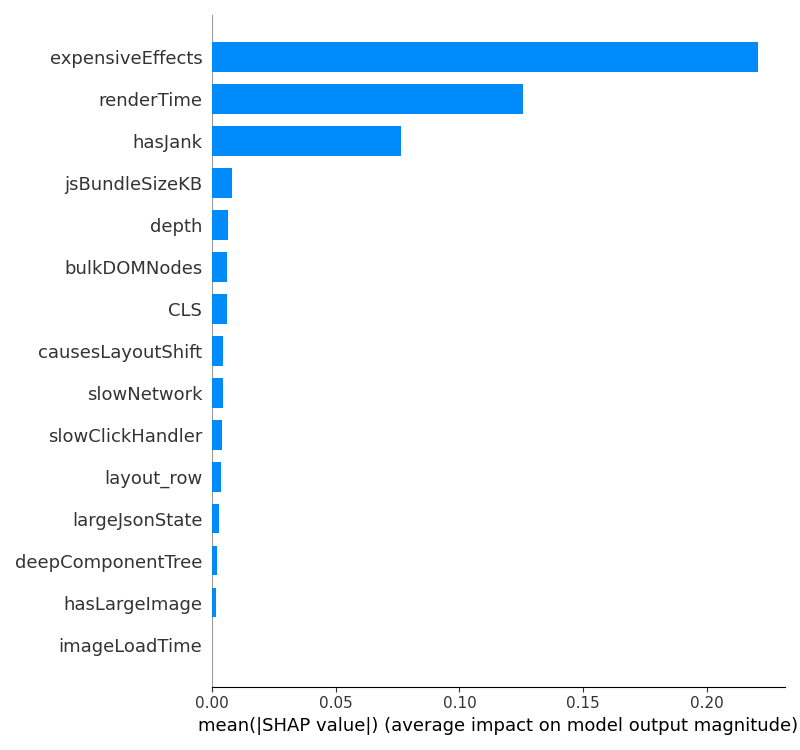
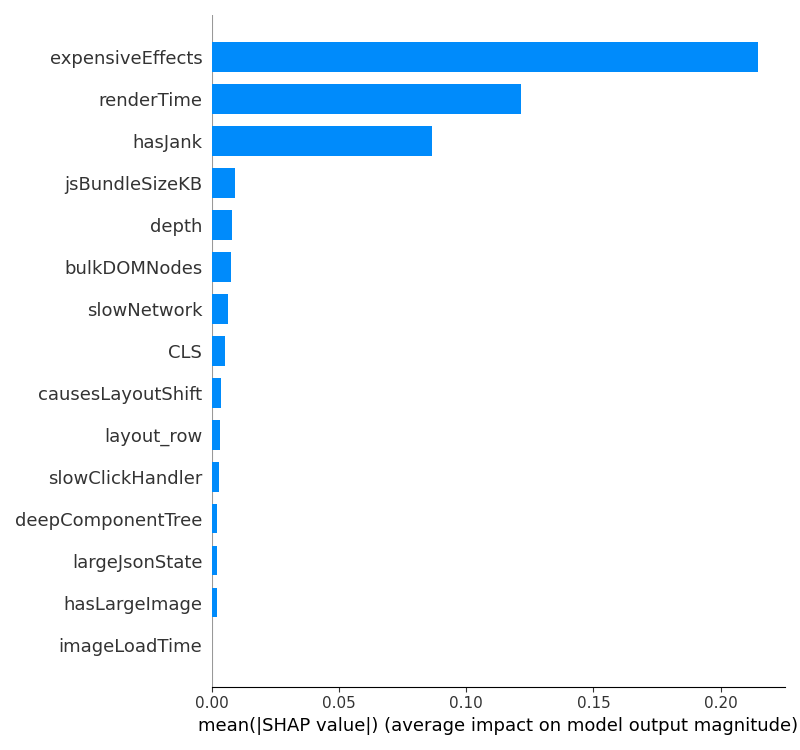
models

diff --git a/ml/shap_analysis.py b/ml/shap_analysis.py
@@ -1,79 +1,113 @@
-"""Generate SHAP based feature importance visualisations for the trained model."""
-
-import joblib
+import argparse
 from pathlib import Path
 
 import matplotlib.pyplot as plt
 import numpy as np
 import pandas as pd
 import shap
+import joblib
 
+from sklearn.preprocessing import LabelEncoder
 
 DATASET = Path(__file__).with_name("dataset.csv")
-MODEL = Path(__file__).with_name("models") / "random_forest.joblib"
-OUTPUT_DIR = Path(__file__).with_name("shap_results")
+MODELS_DIR = Path(__file__).with_name("models")
+OUTPUT_ROOT = Path(__file__).with_name("shap_results")
 
 
-def main() -> None:
-    """Create SHAP summary, bar and dependence plots."""
+def load_model(model_name: str):
+    path = MODELS_DIR / f"{model_name}.joblib"
+    if not path.exists():
+        raise FileNotFoundError(f"Model file not found: {path}")
+    return joblib.load(path)
+
+
+def get_explainer(model, X_encoded, model_name):
+    """Return the appropriate SHAP explainer based on model type"""
+    if model_name == "xgboost":
+        import xgboost as xgb
+        return shap.Explainer(model)
+    elif model_name == "lightgbm":
+        import lightgbm as lgb
+        return shap.Explainer(model)
+    elif hasattr(model, "predict_proba"):
+        # Tree-based or linear
+        return shap.Explainer(model, X_encoded)
+    else:
+        raise ValueError(f"No suitable SHAP explainer found for {model_name}")
+
+
+def main():
+    parser = argparse.ArgumentParser()
+    parser.add_argument("--model", type=str, default="random_forest", help="Model name without .joblib")
+    args = parser.parse_args()
+
+    model_name = args.model
+    model = load_model(model_name)
+    OUTPUT_DIR = OUTPUT_ROOT / model_name
+    OUTPUT_DIR.mkdir(exist_ok=True)
+
     df = pd.read_csv(DATASET)
 
     drop_cols = [
-        "pageName",
-        "pattern",
-        "LCP",
-        "FID",
-        "TBT",
-        "label",
+        "pageName", "pattern", "LCP", "FID", "TBT", "label"
     ]
-
     X = df.drop(columns=drop_cols)
 
-    # Cast boolean columns to integers so SHAP can handle them
+    # Handle boolean & categorical
+    # Handle boolean & categorical
     for col in X.select_dtypes(include="bool").columns:
         X[col] = X[col].astype(int)
 
-    # Handle categorical encoding
     X_encoded = pd.get_dummies(X, columns=["layout"], drop_first=True)
 
-    model = joblib.load(MODEL)
+    # Fix: ensure no nulls and all float type
+    X_encoded = X_encoded.fillna(0).astype("float32")
 
-    explainer = shap.TreeExplainer(model)
-    shap_values = explainer.shap_values(X_encoded)
 
-    if isinstance(shap_values, list):
-        # Older versions return a list by class index
-        values = shap_values[1]
-    elif shap_values.ndim == 3:
-        # Newer versions return (n_samples, n_features, n_classes)
-        values = shap_values[:, :, 1]
-    else:
-        values = shap_values
+    # Encode label if needed (for some models like XGBoost)
+    label_encoder = LabelEncoder()
+    y = label_encoder.fit_transform(df["label"])
 
-    OUTPUT_DIR.mkdir(exist_ok=True)
+    explainer = get_explainer(model, X_encoded, model_name)
+    shap_values = explainer(X_encoded)
 
-    # Summary (beeswarm) plot
+    # Summary (beeswarm)
     plt.figure()
-    shap.summary_plot(values, X_encoded, show=False)
+    shap.summary_plot(shap_values, X_encoded, show=False)
     plt.tight_layout()
     plt.savefig(OUTPUT_DIR / "summary.png")
     plt.close()
 
-    # Mean absolute SHAP value bar plot
+    # Bar plot
     plt.figure()
-    shap.summary_plot(values, X_encoded, plot_type="bar", show=False)
+    shap.summary_plot(shap_values, X_encoded, plot_type="bar", show=False)
     plt.tight_layout()
     plt.savefig(OUTPUT_DIR / "bar.png")
     plt.close()
 
-    # Dependence plot for the most important feature
-    mean_abs_shap = np.abs(values).mean(axis=0)
+    # Dependence plot for top feature
+    mean_abs_shap = np.abs(shap_values.values).mean(axis=0)
     top_feature = X_encoded.columns[np.argmax(mean_abs_shap)]
     plt.figure()
-    shap.dependence_plot(top_feature, values, X_encoded, show=False)
+    
+    # Determine proper SHAP values shape
+    if hasattr(shap_values, "values"):
+        shap_array = shap_values.values
+    elif isinstance(shap_values, list):
+        shap_array = shap_values[1]  # For binary classifier: class 1
+    elif shap_values.ndim == 3:
+        shap_array = shap_values[:, :, 1]
+    else:
+        shap_array = shap_values
+
+    # Now safe to call
+    shap.dependence_plot(top_feature, shap_array, X_encoded, show=False)
+
     plt.tight_layout()
     plt.savefig(OUTPUT_DIR / f"{top_feature}_dependence.png")
     plt.close()
+
+    print(f"✅ SHAP plots saved in {OUTPUT_DIR}")
 
 
 if __name__ == "__main__":

diff --git a/ml/train_models.py b/ml/train_models.py
@@ -1,10 +1,17 @@
 import pandas as pd
 from pathlib import Path
 from sklearn.model_selection import train_test_split
-from sklearn.tree import DecisionTreeClassifier
-from sklearn.ensemble import RandomForestClassifier, GradientBoostingClassifier
+from sklearn.preprocessing import StandardScaler
 from sklearn.metrics import classification_report
+from sklearn.tree import DecisionTreeClassifier
+from sklearn.ensemble import RandomForestClassifier, GradientBoostingClassifier, VotingClassifier
+from sklearn.linear_model import LogisticRegression
+from sklearn.svm import SVC
+import xgboost as xgb
+import lightgbm as lgb
 import joblib
+from sklearn.preprocessing import LabelEncoder
+
 
 DATASET = Path(__file__).with_name('dataset.csv')
 MODELS_DIR = Path(__file__).with_name('models')
@@ -12,14 +19,8 @@ LABEL_COLUMN = 'label'
 
 def main():
     df = pd.read_csv(DATASET)
-
-    # Target
     y = df[LABEL_COLUMN]
 
-    # Features to drop
-    # Exclude metrics that were used to derive the label to avoid
-    # information leakage during training. Otherwise models can
-    # trivially achieve perfect accuracy by looking at these fields.
     drop_cols = [
         'pageName',
         'pattern',
@@ -29,31 +30,57 @@ def main():
         LABEL_COLUMN,
     ]
 
-    # Handle categorical encoding
+    # Encode categorical
     df_encoded = pd.get_dummies(df.drop(columns=drop_cols), columns=['layout'], drop_first=True)
-
-    # Ensure all data is numeric
     X = df_encoded.astype(float)
 
-    # Train/test split
+    # Split
     X_train, X_test, y_train, y_test = train_test_split(X, y, test_size=0.2, random_state=42)
 
+    # Scale features
+    scaler = StandardScaler()
+    X_train_scaled = scaler.fit_transform(X_train)
+    X_test_scaled = scaler.transform(X_test)
+
+    # Save scaler
     MODELS_DIR.mkdir(exist_ok=True)
+    joblib.dump(scaler, MODELS_DIR / 'scaler.joblib')
 
     models = {
         'decision_tree': DecisionTreeClassifier(),
         'random_forest': RandomForestClassifier(n_estimators=100),
-        'gradient_boosting': GradientBoostingClassifier()
+        'gradient_boosting': GradientBoostingClassifier(),
+        'logistic_regression': LogisticRegression(max_iter=1000),
+        'svm': SVC(),
+        'xgboost': xgb.XGBClassifier(use_label_encoder=False, eval_metric='logloss'),
+        'lightgbm': lgb.LGBMClassifier(),
+        'voting': VotingClassifier(estimators=[
+            ('rf', RandomForestClassifier(n_estimators=50)),
+            ('lr', LogisticRegression(max_iter=1000)),
+            ('gb', GradientBoostingClassifier())
+        ], voting='hard')
     }
 
+    # Label encoding for XGBoost
+    le = LabelEncoder()
+    y_encoded = le.fit_transform(y)
+
+
     for name, model in models.items():
-        model.fit(X_train, y_train)
-        preds = model.predict(X_test)
-        print(f"--- {name} ---")
-        print(classification_report(y_test, preds))
+        if name == 'xgboost':
+            model.fit(X_train_scaled, y_encoded[y_train.index])
+            preds = model.predict(X_test_scaled)
+            preds_decoded = le.inverse_transform(preds)
+            print(f"--- {name} ---")
+            print(classification_report(y_test, preds_decoded))
+        else:
+            model.fit(X_train_scaled, y_train)
+            preds = model.predict(X_test_scaled)
+            print(f"--- {name} ---")
+            print(classification_report(y_test, preds))
+
         joblib.dump(model, MODELS_DIR / f'{name}.joblib')
         print(f'{name} model saved')
-
 
 if __name__ == '__main__':
     main()
